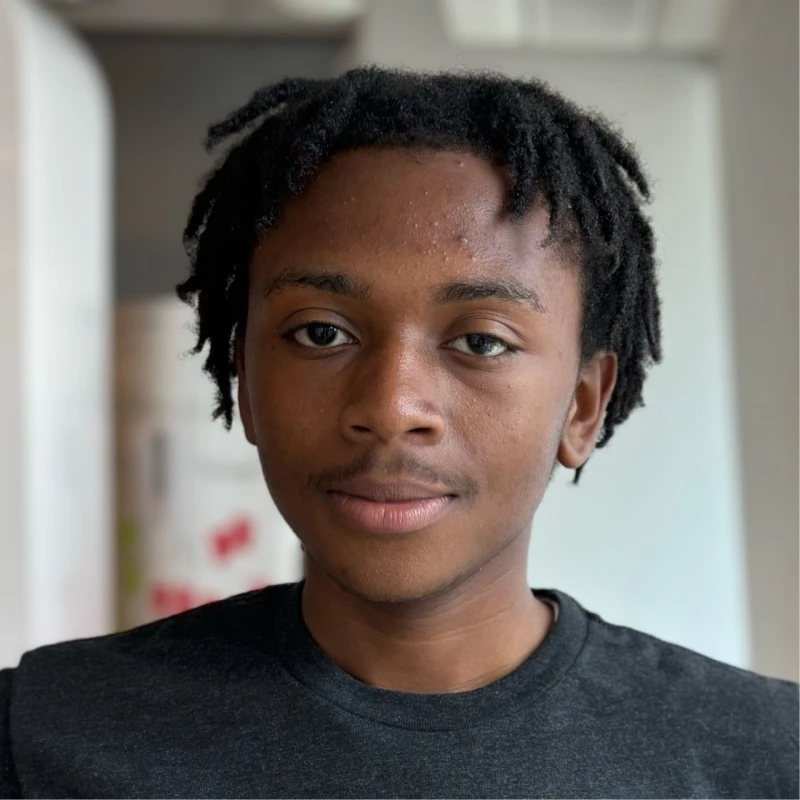
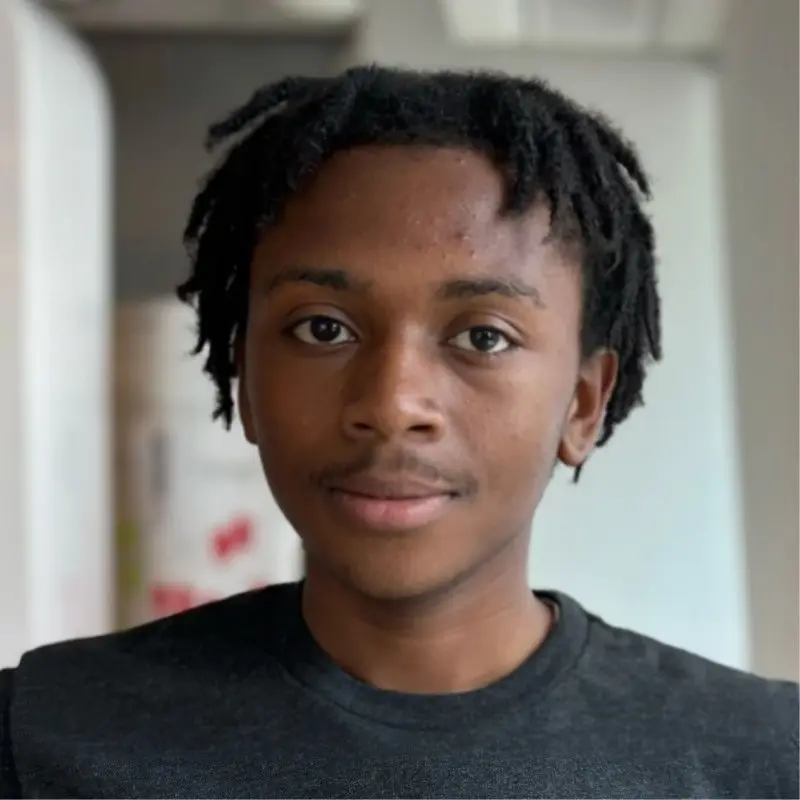
Add new profile image in WEBP format

diff --git a/src/components/LinkButtons.jsx b/src/components/LinkButtons.jsx
@@ -5,14 +5,14 @@ const LinkButtons = () => {
       icon: "fa-solid fa-globe", 
       text: "Visit my full site and see what I'm up to!", 
       name: "portfolio",
-      image: "/personal/antonioarchercom.png"
+      image: "/personal/portfo.webp"
     },
     {
       href: "https://s.blinq.me/z9wgm5sYJfBo43d4NS0y?n=Antonio&bs=iw&ida_v=control",
       icon: "fas fa-clock",
       text: "Add me to your contacts",
       name: "timewise",
-      image: "/personal/profile.avif"
+      image: "/personal/profile.webp"
     },
     { 
       href: "https://www.github.com/ad-archer", 
